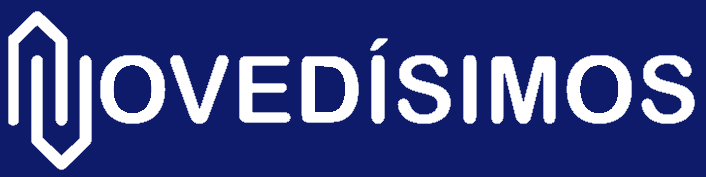
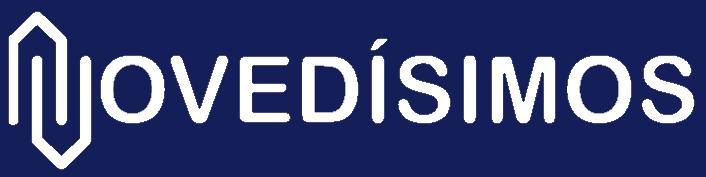
Descripción de los cambios realizados

diff --git a/src/Dashboard.jsx b/src/Dashboard.jsx
@@ -4,6 +4,7 @@ import Modal from 'react-modal';
 import './Dashboard.css';
 import './Modal.css';
 import closeIcon from '/images/close.png';
+import menuIcon from '/images/move.png';
 
 Modal.setAppElement('#root');
 
@@ -195,6 +196,12 @@ function Dashboard() {
         localStorage.setItem('clientsData', JSON.stringify(updatedClients));
     };
 
+    const [sidebarCollapsed, setSidebarCollapsed] = useState(false);
+
+    const toggleSidebar = () => {
+        setSidebarCollapsed(!sidebarCollapsed);
+    };
+
   return (
     <div className="dashboard-container">
       <header className="dashboard-header">
@@ -369,11 +376,14 @@ function Dashboard() {
             </tbody>
   </table>
 </div>
-        <div className="dashboard-sidebar">
+<div className={`dashboard-sidebar ${sidebarCollapsed ? 'collapsed' : ''}`}>
+        <div className="sidebar-toggle-icon" onClick={toggleSidebar}>
+        <img src={menuIcon} alt="Menu" className="menu-icon-small" />
+        </div>
         <div className="sidebar-header">
-          <div className="imagen-header">
-            <img className="img-logo" src="../images/ovedisimos-dashboard.png" alt="Imagen de login" />
-          </div>
+            <div className="imagen-header">
+                <img className="img-logo" src="../images/ovedisimos-dashboard.png" alt="Imagen de login" />
+            </div>
         </div>
         <nav>
           <ul className="main-menu">
@@ -500,9 +510,11 @@ function Dashboard() {
             </li>
           </ul>
         </nav>
+        <img src="/images/idea.png" alt="Idea" className="floating-idea-icon" />
       </div>
       </div>
-    </div>
+      </div>
+    
   );
 }
 

diff --git a/src/Dashboard.css b/src/Dashboard.css
@@ -22,6 +22,29 @@ body {
     top: 0; 
     left: 0; 
     height: 100vh; 
+    transition: left 0.3s ease;
+}
+
+.dashboard-sidebar.collapsed {
+  left: -280px; 
+}
+
+.sidebar-toggle-icon {
+  position: absolute;
+  top: 90px;
+  right: -15px; 
+  width: 30px;
+  height: 30px;
+  cursor: pointer;
+  background-color: #4763e4;
+  display: flex;
+  justify-content: center;
+  align-items: center;
+}
+
+.menu-icon-small {
+  width: 40px;
+  height: 40px;
 }
 
 .dashboard-content {
@@ -147,7 +170,7 @@ body {
 }
 
 .imagen-header{
-    background-color: #0e1b6b; 
+    background-color: #141e58; 
     margin-left: -20px;
     padding: 20px;
     margin-top: -20px;
@@ -205,7 +228,7 @@ body {
 .search-icon {
   position: absolute;
   left: 28px; 
-  top: 50%;
+  top: 49%;
   transform: translateY(-50%);
   width: 18px; 
   height: 18px;
@@ -379,4 +402,14 @@ table .estado-completado {
 table .estado-cancelado {
   color: #991b1b;
   font-weight: 400;
+}
+
+.floating-idea-icon {
+  position: fixed;
+  bottom: 20px; 
+  right: 20px; 
+  width: 50px; 
+  height: 50px; 
+  z-index: 1;
+  cursor: pointer;
 }
